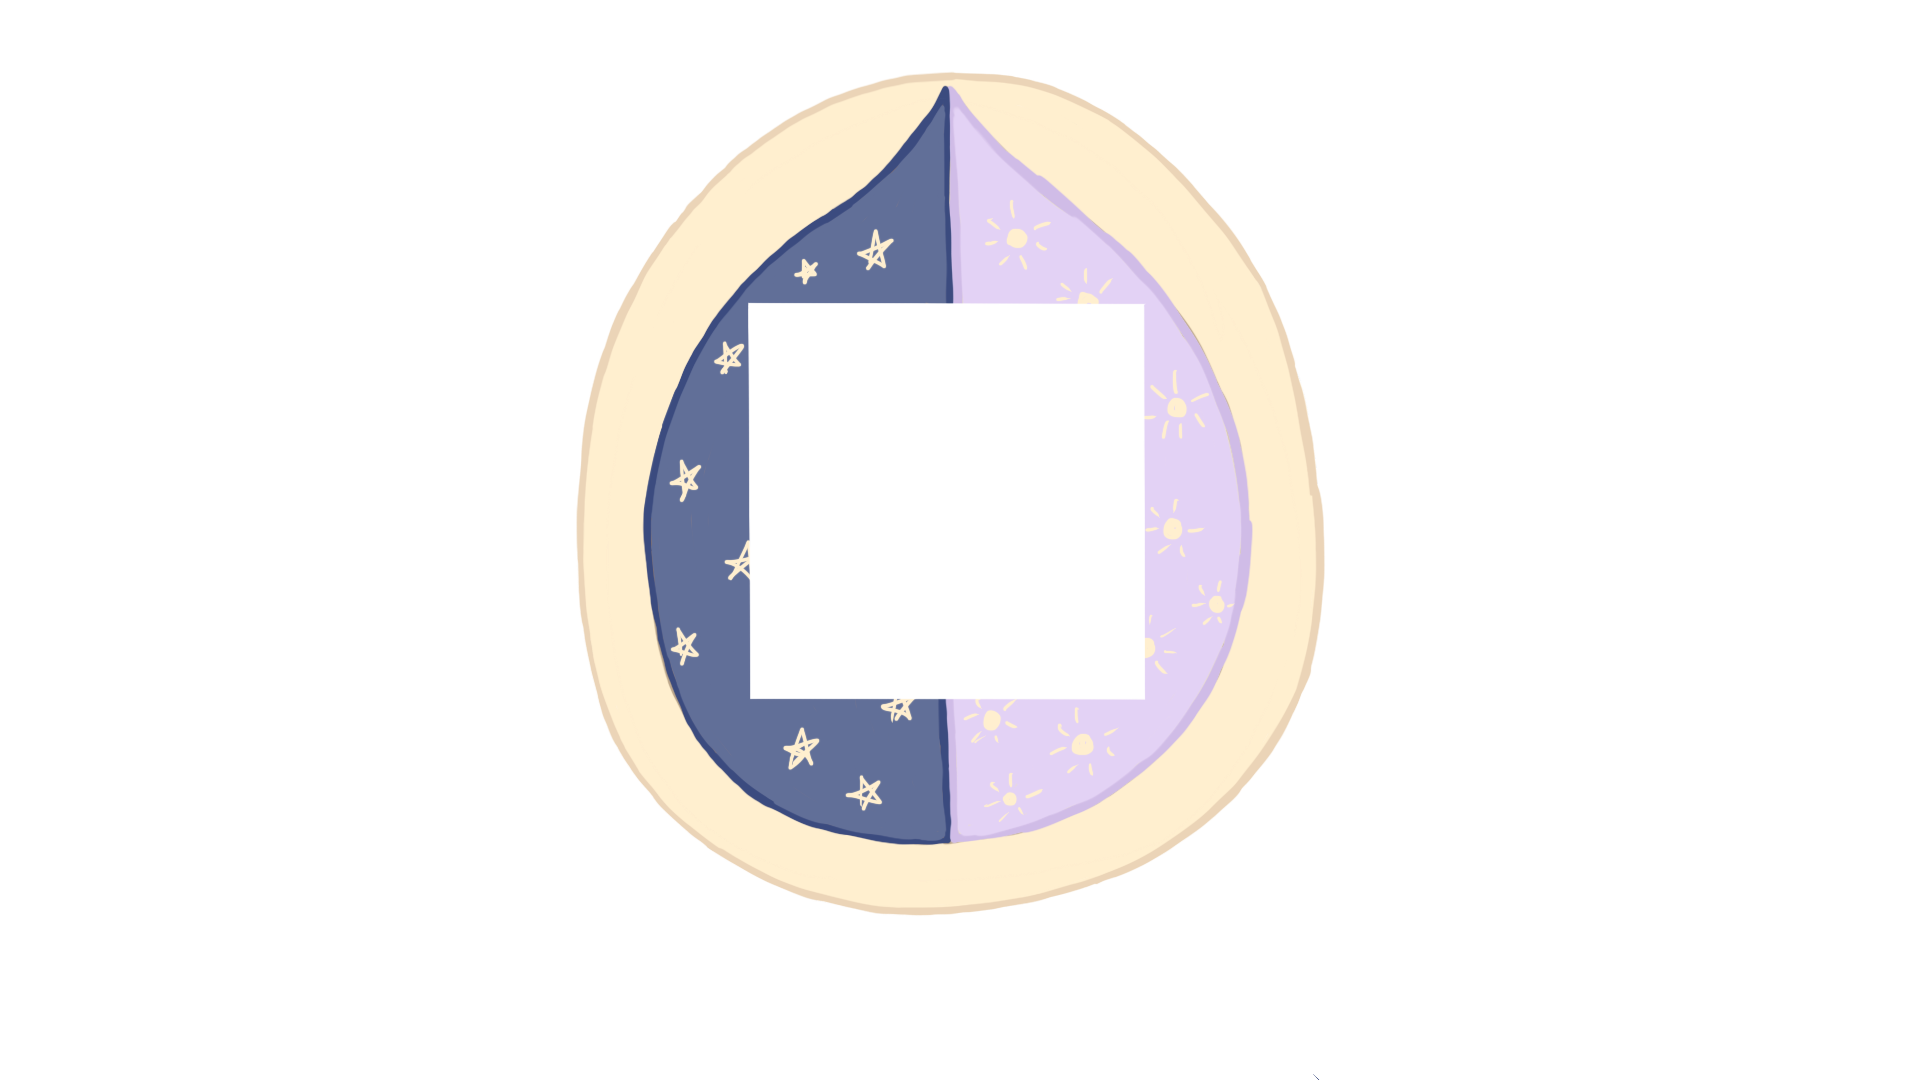
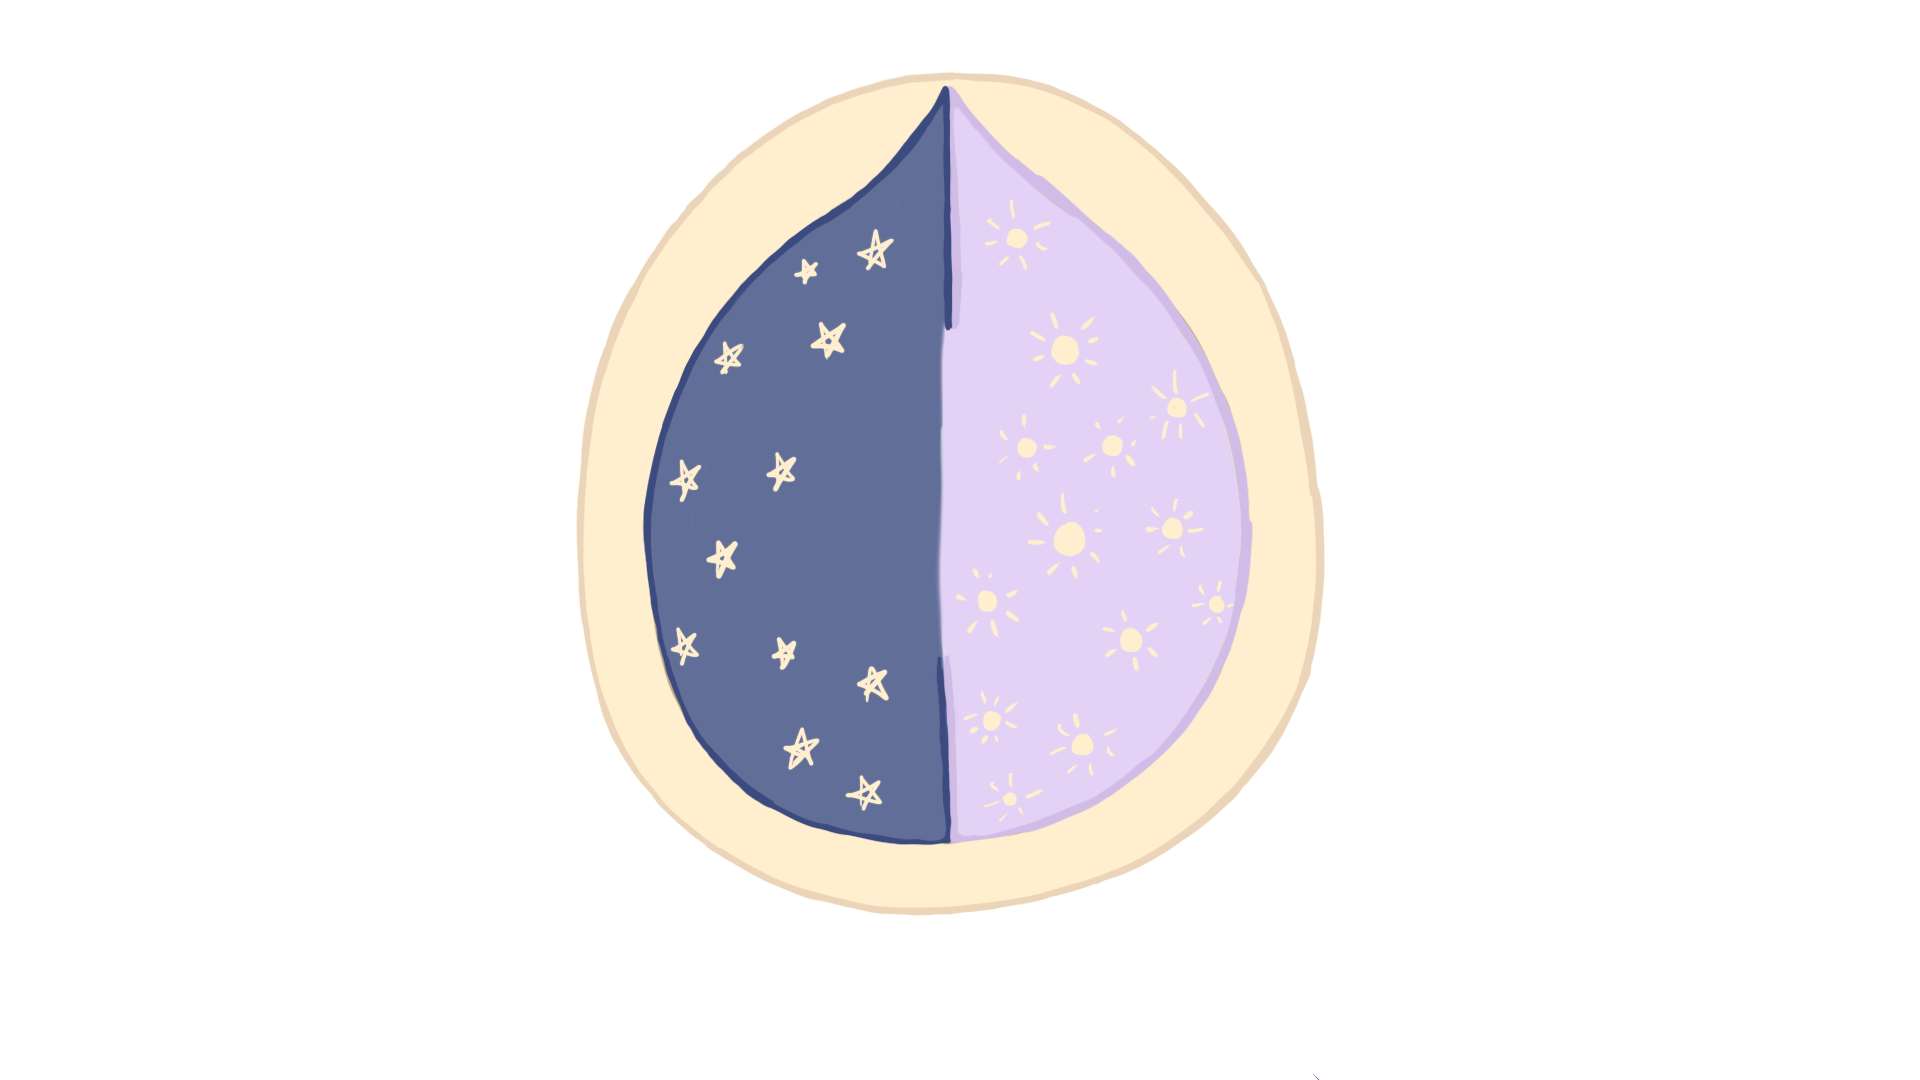
beautification

Changed region(s): [[0.375, 0.275, 0.625, 0.6722]]

diff --git a/index.html b/index.html
@@ -2,10 +2,12 @@
 <html>
     <head>
         <title>eeveegotchi</title>
+        <link rel="icon" type="image/vnd.microsoft.icon" href="./assets/favicon.ico">
+        <link rel="stylesheet" type="text/css" href="style.css" />
         <script src="gsap.min.js"></script>
         <script src="p5.min.js"></script>
         <script src="p5setup.js"></script>
         <script type = "module" src="main.js"></script>
-        <link rel="stylesheet" type="text/css" href="style.css" />
+        <img src="./assets/frame.png" alt="tamagotchi frame">
     </head>
 </html>

diff --git a/main.js b/main.js
@@ -24,7 +24,7 @@ let continueButton = new Button (130, 325, 159, 35);
 let evolvingButton = new Button (137, 253, 159, 35);
 let restartButton = new Button (147, 342, 122, 28);
 
-let state = "timeGame"; 
+let state = "start"; 
 
 //objects
 let gameOne = new TimeGame();
@@ -163,13 +163,9 @@ function mouseClicked() {
         }  
 }
 
-
-
 function draw() {
     clear();
     display();
-
-    console.log(gameOne.food.y);
 }
 
 gameOne.bagAnimation();

diff --git a/style.css b/style.css
@@ -1,12 +1,20 @@
 body {
   padding: 0;
   margin: 0;
-  background-color: rgb(255, 239, 207);
+  background-color: #A2D2FF;
+}
+
+img {
+  position:absolute;
+  left: 50%;
+  transform: translate(-50%);
+  border: 0;
+  background: transparent;
 }
 
 canvas {
-  display: block;
- margin-left: auto;
- margin-right: auto;
- margin-top: 100px;
+  position: absolute;
+  left: 50%;
+  top: 500px;
+  transform: translate(-50%, -50%);
 }
